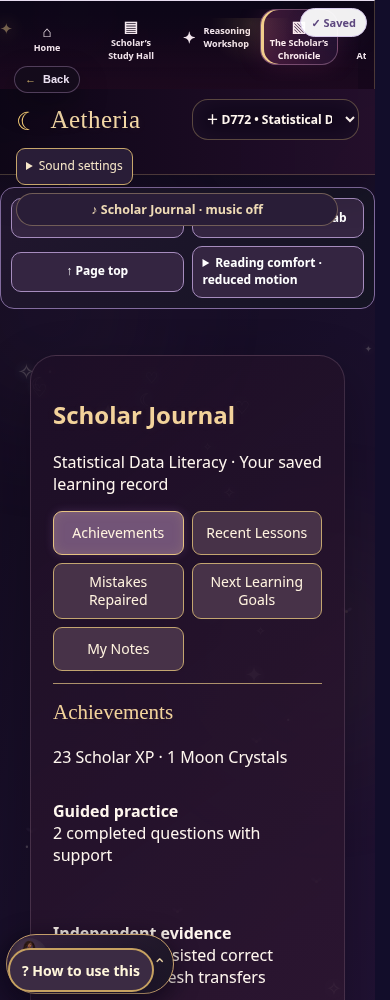
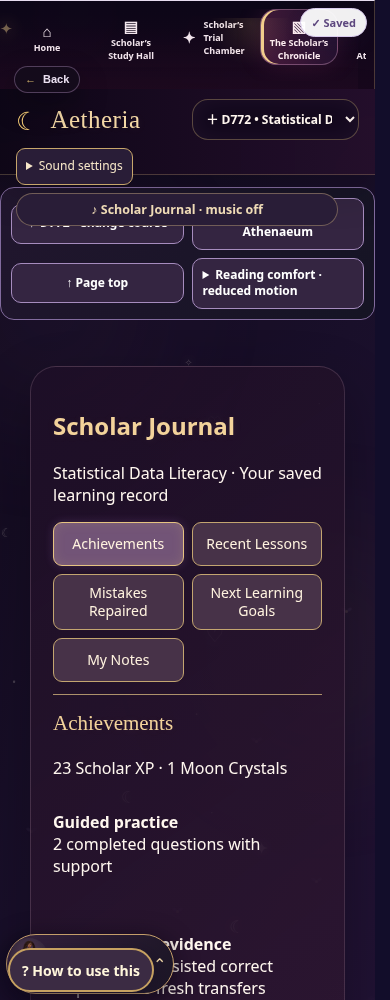
Stop the existing Sanctuary render ticker when its scene is hidden

diff --git a/current-site/room-section-nav.js b/current-site/room-section-nav.js
@@ -5,7 +5,14 @@ const ROOM_NAMES={reasoning:'Scholar’s Trial Chamber',mission:'Scholar’s Stu
 // Preserve every academic renderer and form. The nonacademic rooms use one
 // visible section at a time; academic rooms keep their non-destructive jumps.
 const TABBED_ROOMS=new Set(['journal','grimoire','livinggrimoire','companions','guide','vault','analytics','addmaterial']);
-const selections=new Map();
+const selections=new Map(),sceneVisibility=new WeakMap();
+function syncPanelScene(panel){
+ panel.querySelectorAll('iframe.v3317SanctuaryFrame').forEach(frame=>{
+  const notify=()=>{const visible=!panel.classList.contains('majRoomInactive');if(sceneVisibility.get(frame)===visible)return;sceneVisibility.set(frame,visible);frame.contentWindow?.postMessage({type:'MAJICK_ROOM_VISIBILITY',visible},location.origin)};
+  if(!frame.dataset.roomVisibilityBound){frame.dataset.roomVisibilityBound='true';frame.addEventListener('load',()=>{sceneVisibility.delete(frame);notify()})}
+  notify();
+ });
+}
 let pending=false,updating=false;
 function refresh(){
  if(updating)return;updating=true;
@@ -51,7 +58,7 @@ function refresh(){
     el.classList.toggle('majRoomInactive',i!==active);
     el.classList.toggle('majRoomActive',i===active);
     el.dataset.majRoomPanel=String(i);
-    if(i!==active)el.setAttribute('inert','');else el.removeAttribute('inert');
+    if(i!==active)el.setAttribute('inert','');else el.removeAttribute('inert');syncPanelScene(el);
    });
   }else{
    nodes.forEach(el=>{el.classList.remove('majRoomInactive','majRoomActive');el.removeAttribute('inert');delete el.dataset.majRoomPanel});
@@ -75,7 +82,7 @@ function refresh(){
     button.classList.toggle('majRoomSelected',i===active);
     button.onclick=()=>{
      selections.set(key,label);
-     rows.forEach(({el:panel},j)=>{panel.classList.toggle('majRoomInactive',j!==i);panel.classList.toggle('majRoomActive',j===i);if(j!==i)panel.setAttribute('inert','');else panel.removeAttribute('inert')});
+     rows.forEach(({el:panel},j)=>{panel.classList.toggle('majRoomInactive',j!==i);panel.classList.toggle('majRoomActive',j===i);if(j!==i)panel.setAttribute('inert','');else panel.removeAttribute('inert');syncPanelScene(panel)});
      nav.querySelectorAll('button').forEach((b,j)=>{b.setAttribute('aria-pressed',String(j===i));b.classList.toggle('majRoomSelected',j===i)});
      nav.scrollIntoView({block:'start',behavior:'instant'});
     };

diff --git a/current-site/pixi-sanctuary/prototype.js b/current-site/pixi-sanctuary/prototype.js
@@ -30,6 +30,20 @@ motionMedia.addEventListener('change',event=>{reduced=event.matches;if(reduced){
 const app=new PIXI.Application();
 try{await app.init({width:1200,height:700,backgroundAlpha:0,antialias:false,resolution:Math.min(devicePixelRatio||1,2),preference:'webgl',powerPreference:'low-power'})}catch(error){failure(error);return}
 room.append(app.canvas);
+// The existing app ticker is also the rendering lifecycle owner. Moving no
+// sprites is insufficient: a hidden WebGL scene must stop rendering entirely.
+let ownerVisible=true,roomVisible=true;
+function syncRendering(){
+ const visible=ownerVisible&&roomVisible&&!document.hidden;
+ if(visible&&!app.ticker.started)app.start();
+ else if(!visible&&app.ticker.started)app.stop();
+}
+const roomObserver=new IntersectionObserver(entries=>{roomVisible=entries[0]?.isIntersecting!==false;syncRendering()});
+roomObserver.observe(room);
+document.addEventListener('visibilitychange',syncRendering);
+window.addEventListener('pagehide',()=>{app.stop();roomObserver.disconnect()});
+window.addEventListener('pageshow',()=>{roomObserver.observe(room);syncRendering()});
+
 const world=new PIXI.Container(),objects=new PIXI.Container();app.stage.addChild(world);world.addChild(objects);objects.sortableChildren=true;
 const sparks=new PIXI.Container();world.addChildAt(sparks,0);
 // Clip only floating dust; the floor's constellation sigil stays visible.
@@ -234,6 +248,7 @@ async function applyState(payload){
 window.addEventListener('message',event=>{
  if(event.origin!==location.origin||event.source!==parent)return;
  const data=event.data;
+ if(data?.type==='MAJICK_ROOM_VISIBILITY'&&typeof data.visible==='boolean'){ownerVisible=data.visible;syncRendering();return;}
  if(data?.type==='MAJICK_STATE')applyState(data.payload);
  if(data?.type==='MAJICK_SANCTUARY_ROSTER_REQUEST_V3350')publish();
  if(data?.type==='MAJICK_PIXI_ACTION_RESULT'){

diff --git a/tests/aetheria-sanctuary-browser.py b/tests/aetheria-sanctuary-browser.py
@@ -35,9 +35,16 @@ with sync_playwright() as pw:
   # Honest speed control uses the one existing ticker, preserves saved state.
   frame().locator('#walk-speed').select_option('0.5');assert inspect()['diagnostics']['walkSpeed']==.5
   frame().locator('#walk-speed').select_option('1.5');assert inspect()['diagnostics']['walkSpeed']==1.5
+  frame().locator('#room').scroll_into_view_if_needed();frame().wait_for_function('MajickPixiSanctuary.inspect().diagnostics.tickerStarted');
   ticks=inspect()['diagnostics']['ticks'];page.wait_for_timeout(1500);assert inspect()['diagnostics']['ticks']>ticks
   frame().locator('#toggle').click();positions=[(g['x'],g['y']) for g in inspect()['guardians']];page.wait_for_timeout(400);assert positions==[(g['x'],g['y']) for g in inspect()['guardians']]
   frame().locator('#toggle').click();frame().locator('#reset').click();assert inspect()['diagnostics']['spawns']==11
+  # A hidden room panel stops the actual Pixi render ticker, then resumes once.
+  page.evaluate('''()=>{MajickRoomSections.refresh();const f=document.querySelector('#phase4SanctuaryFrame'),panel=f.closest('.phase4Wrap');window.sanctuaryPanelId=panel.id;const buttons=[...document.querySelectorAll('#majickRoomSections button')];buttons.find(b=>b.getAttribute('aria-controls')!==panel.id)?.click()}''')
+  frame().wait_for_function('!MajickPixiSanctuary.inspect().diagnostics.tickerStarted')
+  hidden_ticks=inspect()['diagnostics']['ticks'];page.wait_for_timeout(350);assert inspect()['diagnostics']['ticks']==hidden_ticks
+  page.evaluate('''()=>[...document.querySelectorAll('#majickRoomSections button')].find(b=>b.getAttribute('aria-controls')===sanctuaryPanelId).click()''')
+  frame().locator('#room').scroll_into_view_if_needed();frame().wait_for_function('MajickPixiSanctuary.inspect().diagnostics.tickerStarted')
   # Selector repair: recognize actual primary iframe ID even without legacy CSS class.
   page.evaluate('document.querySelector("#phase4SanctuaryFrame").classList.remove("v3317SanctuaryFrame");MajickSanctuaryAudit.request(document.querySelector("#phase4SanctuaryFrame"))')
   page.wait_for_function('MajickSanctuaryAudit.status()[0]?.present===11')
@@ -59,7 +66,7 @@ with sync_playwright() as pw:
   page.unroute(pattern);page.once('dialog',lambda d:d.accept());page.get_by_role('button',name='Repair room',exact=True).click();ready()
   assert page.evaluate('JSON.stringify({pets:S.legacy.pets,progress:S.progress,account:S.majickAccount})')==before
   assert not errors,errors
-  print('PASS',width,'11 exact identities, stages, honest frame gaps, one ticker, pause/speed, shared wardrobe/avatar persistence, safe missing-art fallback, confirmed repair and route-source isolation',flush=True)
+  print('PASS',width,'11 exact identities, stages, honest frame gaps, one ticker, hidden render-loop stop/resume, pause/speed, shared wardrobe/avatar persistence, safe missing-art fallback, confirmed repair and route-source isolation',flush=True)
   (out/f'sanctuary-diagnostics-{width}.json').write_text(json.dumps(inspect(),indent=2)+'\n');ctx.close()
  browser.close()
 server.shutdown()

diff --git a/docs/audits/aetheria-startup-learning-repair-2026-11-15.md b/docs/audits/aetheria-startup-learning-repair-2026-11-15.md
@@ -1,0 +1,115 @@
+# Aetheria startup, learning and rendering repair — November 15, 2026
+
+Implementation is substantial but **the entire ten-phase directive is not certified complete**. This report distinguishes new repairs from existing features verified in this session. The supplied Visual Design Bible is a reference for later visual batches, not authorization to replace active systems or create its proposed assets.
+
+## Integration and source
+
+- Repository: `rnw4512-dev/majick-studies-assets`; user explicitly selected **main**. No branches, rooms, learning engines, XP services, Journal databases, or animation loops were created. Existing branches were not deleted or merged in bulk.
+- Starting main: `a16d0dfed93762b95935e054a3efb0ef863ae62b`.
+- `7827bbe`: remove intermediate legacy startup renders, prevent hidden Home Sanctuary initialization, defer/idempotently prepare furniture, persist question-specific Your Turn state, and add browser regression coverage.
+- `220dadc`: persistent vocabulary drafts; stale delayed-test-session guard; compact mobile navigation; existing Journal tabs; lossless/responsive scene artwork; compact accessible XP receipt; certified Pages publisher.
+- `7e534c7`: prevent the Atelier integrity workflow from unconditionally dispatching the legacy publisher. It now requests the canonical publisher only after an actual manifest repair.
+- Rendering lifecycle follow-up: stop/start the **existing Pixi app ticker** with document visibility, viewport intersection and existing room-panel visibility. No second animation owner.
+- PR #282 is **merged** and its enchanted-collegium styling is retained. PR #280 and the older feature/draft PRs remain unmerged; no competing implementation was imported. Council improvements already present on main were preserved.
+- Ordinary pushes to main were accepted. No force push, admin merge or check bypass was used. Reading branch-protection settings returned HTTP 403; no claim is made about unseen settings.
+
+## Phase delivery matrix
+
+| Phase | Status | Evidence and remaining work |
+|---|---|---|
+| 1. Startup | **Partially complete — remaining work** | Actual bottleneck repaired: repeated root renders and an invisible Home Sanctuary iframe. Immediate HTML shell; first requested room; deferred furniture. Controlled profiling below. Full dependency-based splitting of the 96 legacy root scripts is still outstanding. No idle preload queue was added merely to move blocking work elsewhere. |
+| 2. Question state / feedback | **Partially complete — remaining work** | Your Turn uses stable content-derived IDs within the saved course/lesson, separate draft/submitted/completion/feedback maps, a persistent session ID and guarded handlers. Vocabulary snapshots and drafts survive reload. A delayed legacy test callback cannot modify a newer session/course/room. Actual Q1→Q2, wrong→repair→correct, feedback collapse, replay and reload tests pass. These are the repaired flows, not certification of every legacy question mode or optional AI request. |
+| 3. Scrolling / guided navigation | **Partially complete — remaining work** | Question progression focuses and reveals only the active question; explanations collapse. Compact 72px mobile navigation replaces oversized inherited room navigation; buttons remain 56px high. Journal uses keyboard tabs and bounded notes. All 16 existing room links pass smoke checks at 390/820/1366 with no document overflow. A complete instructional/layout review of every lesson is still outstanding. |
+| 4. Artwork / rendering | **Partially complete — remaining work** | Five large existing background families now have pixel-identical lossless WebP and 820px responsive derivatives; originals preserved. Existing Pixi ticker pauses when offscreen/hidden and resumes without a new loop. No Guardian PNG conversion or identity change. Full repository-wide duplicate/unused-art cleanup and long-duration GPU-memory profiling remain outstanding. |
+| 5. Council Chamber | **Complete — verified** | Existing illustrated speaker scene, professional responses, scripted dialogues, guided model, independent isolation, three profiles, input/clarification tracking, transcript/replay, timer, persistence and shared reward rules pass full browser journeys. These features were largely pre-existing, not newly invented here. No Guardian or stakeholder portrait redesign. |
+| 6. Sanctuary | **Partially complete — remaining work** | Browser tests verify eleven saved identities (including duplicate names), correct stages, selection, pause/speed, furniture, saved avatar layers, missing-art fallback, safe repair, route-source isolation and hidden ticker stop/resume. **Blocked — exact reason:** the approved four-frame manifest lacks the complete stage frame sets. Existing one/two-frame walking/portrait fallbacks remain; no unapproved artwork is substituted. |
+| 7. XP / mastery | **Partially complete — remaining work** | Existing receipt is compact, nonblocking, numerical and announced as status; reduced motion disables the entrance effect. Ledger replay and completion replay do not award twice. Journal labels supported completions and explicitly unassisted responses separately; guided reconstruction is not mastery. Legacy reward policy is retained; a full consolidation/audit of every older award entry point is not claimed. |
+| 8. Atmosphere | **Partially complete — remaining work** | Existing parchment/plum/gold styling and illustrated room identities retained. Static scene conversions improve delivery; no extra particles, loop, autoplay music or new sound files. The attached design bible's new portraits, badges and proposed visual treatments are not implemented or approved by this repair. |
+| 9. Scholar Journal | **Complete — verified** | Existing Journal now has Achievements, Recent Lessons, Mistakes Repaired, Next Learning Goals and preserved My Notes. Reads course saves, canonical account/ledger and reconstruction records directly. Actual completed reconstruction and fresh-transfer state remain visible. Keyboard tab changes preserve draft notes; save and resume links work at all three widths. No shadow progress store. |
+| 10. Regression / accessibility / deployment | **Partially complete — remaining work** | 21 canonical Node suites, release checks, four Council classification tests, canonical build and the documented browser journeys pass. Keyboard and reduced-motion behavior are verified. Full manual screen-reader, 200% zoom, exhaustive contrast and long-duration memory/CPU certification remain outstanding. Exact production status is recorded below. |
+
+## Reproducible performance evidence
+
+Baseline is original main `a16d0df`; local Chromium `/usr/bin/chromium`, 1366×900, fresh isolated browser contexts, localhost without throttling. Five alternating baseline/candidate runs; 1,500ms observation after load. No concurrent local browser suites during this controlled comparison. Do not compare these numbers to mobile hardware or a throttled public network.
+
+| Metric (median except deterministic render count) | Before | After |
+|---|---:|---:|
+| Script execution (CDP ScriptDuration) | 826 ms | 371 ms |
+| Observed long-task duration | 830 ms | 368 ms |
+| DOM content loaded | 1,032 ms | 907 ms |
+| Window load | 1,563 ms | 1,084 ms |
+| Root application HTML replacements | 21 | 4 |
+| Home Sanctuary iframes | 1, invisible | 0 |
+| Top-document resource transfer | 9,598,393 bytes | 8,451,537 bytes |
+
+This is a **55% reduction in measured script/long-task work**, not a claim that all startup work is eliminated. Four root replacements remain as current render adapters install. The initial root script count is still 96; source JS grew from 3,205,829 to approximately 3,222,104 bytes to support the repairs and Journal. Single-load heap metrics are retained in raw evidence but do not establish stable long-term memory. Room-loop document/window listeners remained 29/35 across repeated navigation; this does not count every descendant DOM listener.
+
+Reproduce without creating a branch:
+
+```sh
+mkdir -p work/baseline
+# Extract committed source into scratch space; do not check out a feature branch.
+git archive a16d0df current-site | tar -x -C work/baseline
+python tools/profile-startup.py work/baseline/current-site current-site /tmp/aetheria-startup-profile.json
+```
+
+Raw measurements: [controlled-performance.json](evidence/startup-learning-2026-11-15/controlled-performance.json). The earlier exploratory runs are also retained; a run contaminated by concurrent browser tests is excluded from the controlled results.
+
+## Artwork evidence
+
+Full-size WebP conversions were compared to decoded original RGB pixels with `ImageChops.difference`; each comparison was empty (pixel identical). Mobile derivatives preserve aspect ratio at up to 820px width. They are not replacement character artwork.
+
+| Existing scene | PNG bytes | Full-size lossless WebP | Mobile WebP |
+|---|---:|---:|---:|
+| Guardian dorm | 2,341,414 | 1,854,636 | 369,326 |
+| Ancient study library | 2,826,015 | 2,231,428 | 524,704 |
+| Learn classroom v1 | 2,804,493 | 2,193,378 | 578,992 |
+| Learn classroom v2 | 2,731,635 | 2,163,088 | 586,858 |
+| Game observatory | 2,944,385 | 2,299,476 | 519,450 |
+| **Total** | **13,647,942** | **10,742,006 (−21%)** | **2,579,330 (−81%)** |
+
+Source manifest hashes were updated for every changed runtime, stylesheet and new derivative. Original PNGs, approved Guardian frames and evolution art remain intact.
+
+## Verification and how to use the changes
+
+- Home: navigation works without creating a Sanctuary iframe. Select **Companions / Visit Sanctuary** to load the existing scene.
+- Learn Lab / Your Turn: answer the first question, advance, answer the second incorrectly, collapse/reopen feedback, repair it, reload and resume. Each question retains its own state; a detached handler cannot submit another question.
+- Vocabulary: match a pair, leave/reload the activity, return; the existing saved course owner retains the matching draft and vocabulary snapshot.
+- Scholar's Chronicle / Journal: switch the five native tabs using arrows, Home/End or pointer; notes remain typed while changing tabs. Recent Lessons resumes the matching Tutor lesson. Repairs read the actual reconstruction trail and retain fresh-transfer confirmation.
+- Sanctuary: select another room-section tab while the scene is mounted; its Pixi ticker stops, and starts once on return. Leaving Companions destroys the iframe document naturally. Selection, furniture and avatar saves continue through the existing owners.
+- XP: confirmed receipts display the numerical award; a replay does not create another ledger award. Reduced-motion display has no entrance animation.
+
+Checks and retained logs are under [evidence/startup-learning-2026-11-15](evidence/startup-learning-2026-11-15/):
+
+- `node pages-release/current/release-checks.cjs current-site`
+- All `pages-release/current/test-*.cjs` suites, including the new session guard.
+- `node --test tests/d756-question-classification.test.cjs`
+- `python pages-release/current/build.py current-site <output>`
+- `tests/startup-learning-browser.py`: 390/820/1366, question identity/state, stale handler, numeric feedback, keyboard collapse, XP replay, draft/reload, vocabulary, Journal notes/repair/transfer/resume, responsive image requests and reduced-motion receipts.
+- `tests/room-navigation-browser.py`: all 16 existing room links at all three widths, nonempty content, no document overflow, no runtime errors, stable document/window listener counts.
+- `tests/aetheria-sanctuary-browser.py`: eleven identities/stages, real wardrobe save, furniture, renderer lifecycle, fallback and confirmed repair.
+- `tests/d756-full-script-browser.py` and `tests/d756-meeting-browser.py`: guided model and independent isolation, real complete meetings, contextual inputs/clarifications, rewards +30/+8/0, persisted ledger, next-day limits, replay and repair-only zero rewards, no runtime/asset failures. The optional legacy `/health` AI endpoint is offline locally; scripted Council does not depend on it.
+- Integration Actions also run the existing Playwright lifecycle, ceremony/reduced-motion and saved-avatar regression tests.
+
+Screenshots: [390px Journal](evidence/startup-learning-2026-11-15/journal-390.png), [820px Journal](evidence/startup-learning-2026-11-15/journal-820.png), [1366px Journal](evidence/startup-learning-2026-11-15/journal-1366.png). Journal screenshots were visually inspected on phone and desktop; screenshots alone are not treated as functional verification.
+
+## Deployment
+
+PENDING FINAL EXACT-SOURCE VERIFICATION.
+
+The existing `publish-aetheria.yml` remains the canonical publisher. It runs the canonical build and real learning/Journal/navigation/Guardian/Council browser checks before publishing, preserves `/current-site/`, stamps `release.json`, and verifies an exact deployed `deployment.json` commit rather than HTTP 200 alone.
+
+An existing integrity workflow had automatically dispatched the legacy publisher. That legacy run finished before cancellation could take effect; it is not the final production verification for this repair. Commit `7e534c7` removes unconditional duplicate dispatch. The canonical publisher must finish and both public entry paths must be checked after it.
+
+Production entry: https://rnw4512-dev.github.io/majick-studies-assets/current-site/
+
+## Break/fix and recovery
+
+- **Old/incorrect artwork after deployment:** compare `current-site/release.json` and `current-site/deployment.json` with the passing publisher run. Check current stylesheet URLs for the stamped release key. Use the existing image fallback; do not reset saves or Guardian identities.
+- **Sanctuary unavailable:** use the existing original-renderer fallback, or the room's explicit Retry/Repair action. Missing four-frame art is not saved-data corruption. For a rendering-lifecycle fault, inspect `MajickPixiSanctuary.inspect().diagnostics.tickerStarted`, selected parent panel and frame visibility; restore the previous lifecycle code without touching the account save.
+- **Question appears stale:** inspect the active course, saved lesson/currentQuestionId and draft/submitted maps. Reproduce in a fresh test context. Do not clear the learner's completion ledger to hide a UI defect.
+- **Journal count differs from a legacy screen:** supported completions and explicitly unassisted canonical answers are intentionally separate. Old records with unknown assistance are not inferred to be independent. Inspect the source records; never manufacture mastery or migrate by erasing historical data.
+- **Build fails after a code edit:** run the named Node/browser checks and recompute the existing SHA-256 source-manifest entry only for reviewed changes. Do not disable integrity validation.
+- **Rollback:** revert the specific repair commit on main using normal Git review rules, retain unrelated later changes, rerun the existing publisher. Reverting UI code does not require clearing browser localStorage; newly saved practice fields are additive and can remain safely in the course save. Roll back source and its corresponding manifest entries together. Never force-push or restore an older learner snapshot as an appearance fix.
+
+Next implementation owner: existing maintainers/Codex on main. Highest remaining priorities are dependency-aware legacy bundle splitting, exhaustive lesson-mode/assist audit and long-duration accessibility/performance certification. Complete four-frame Guardian walking only after approved, aligned stage artwork exists. New visual-bible asset batches remain separate design work after the critical repairs are certified.
